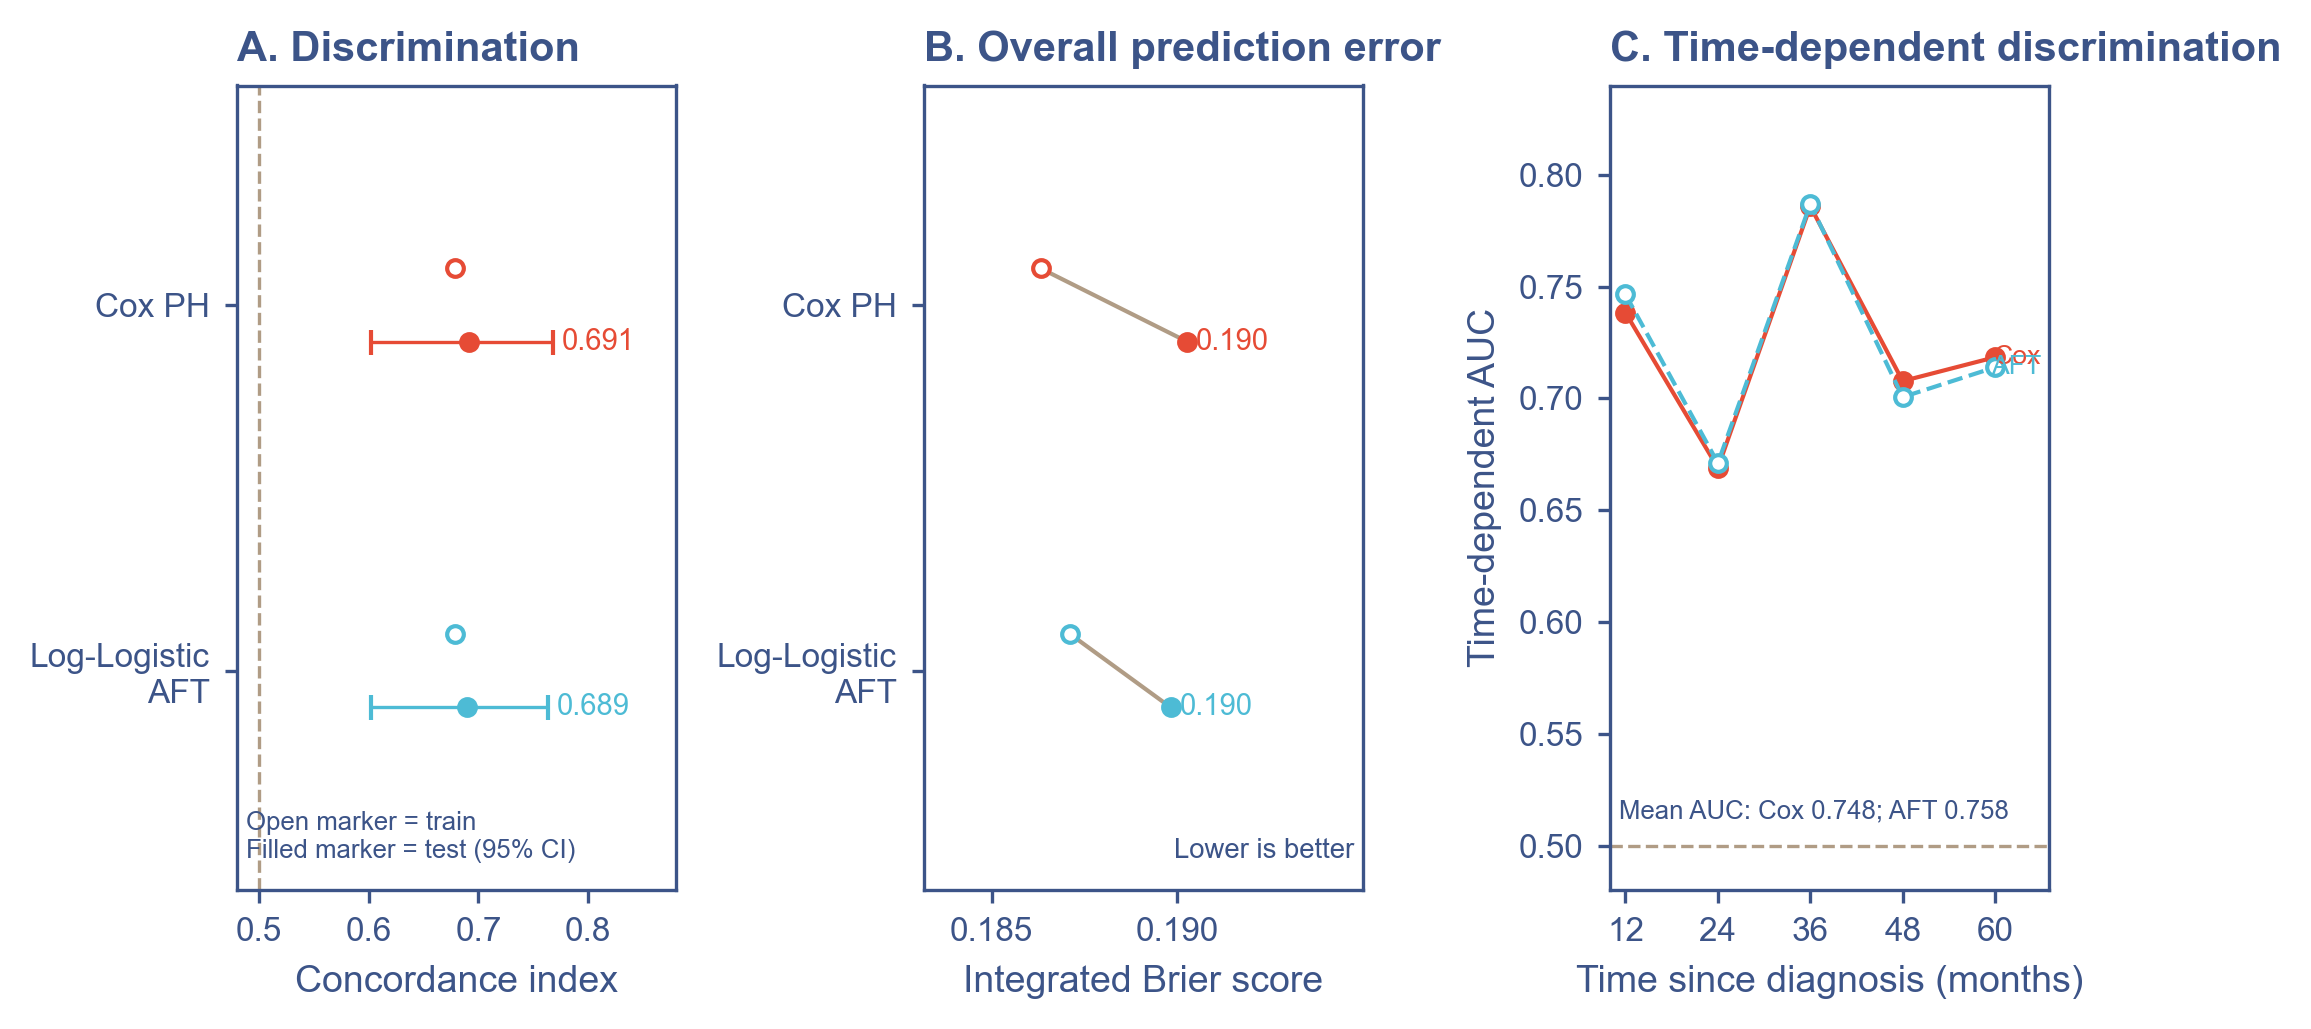
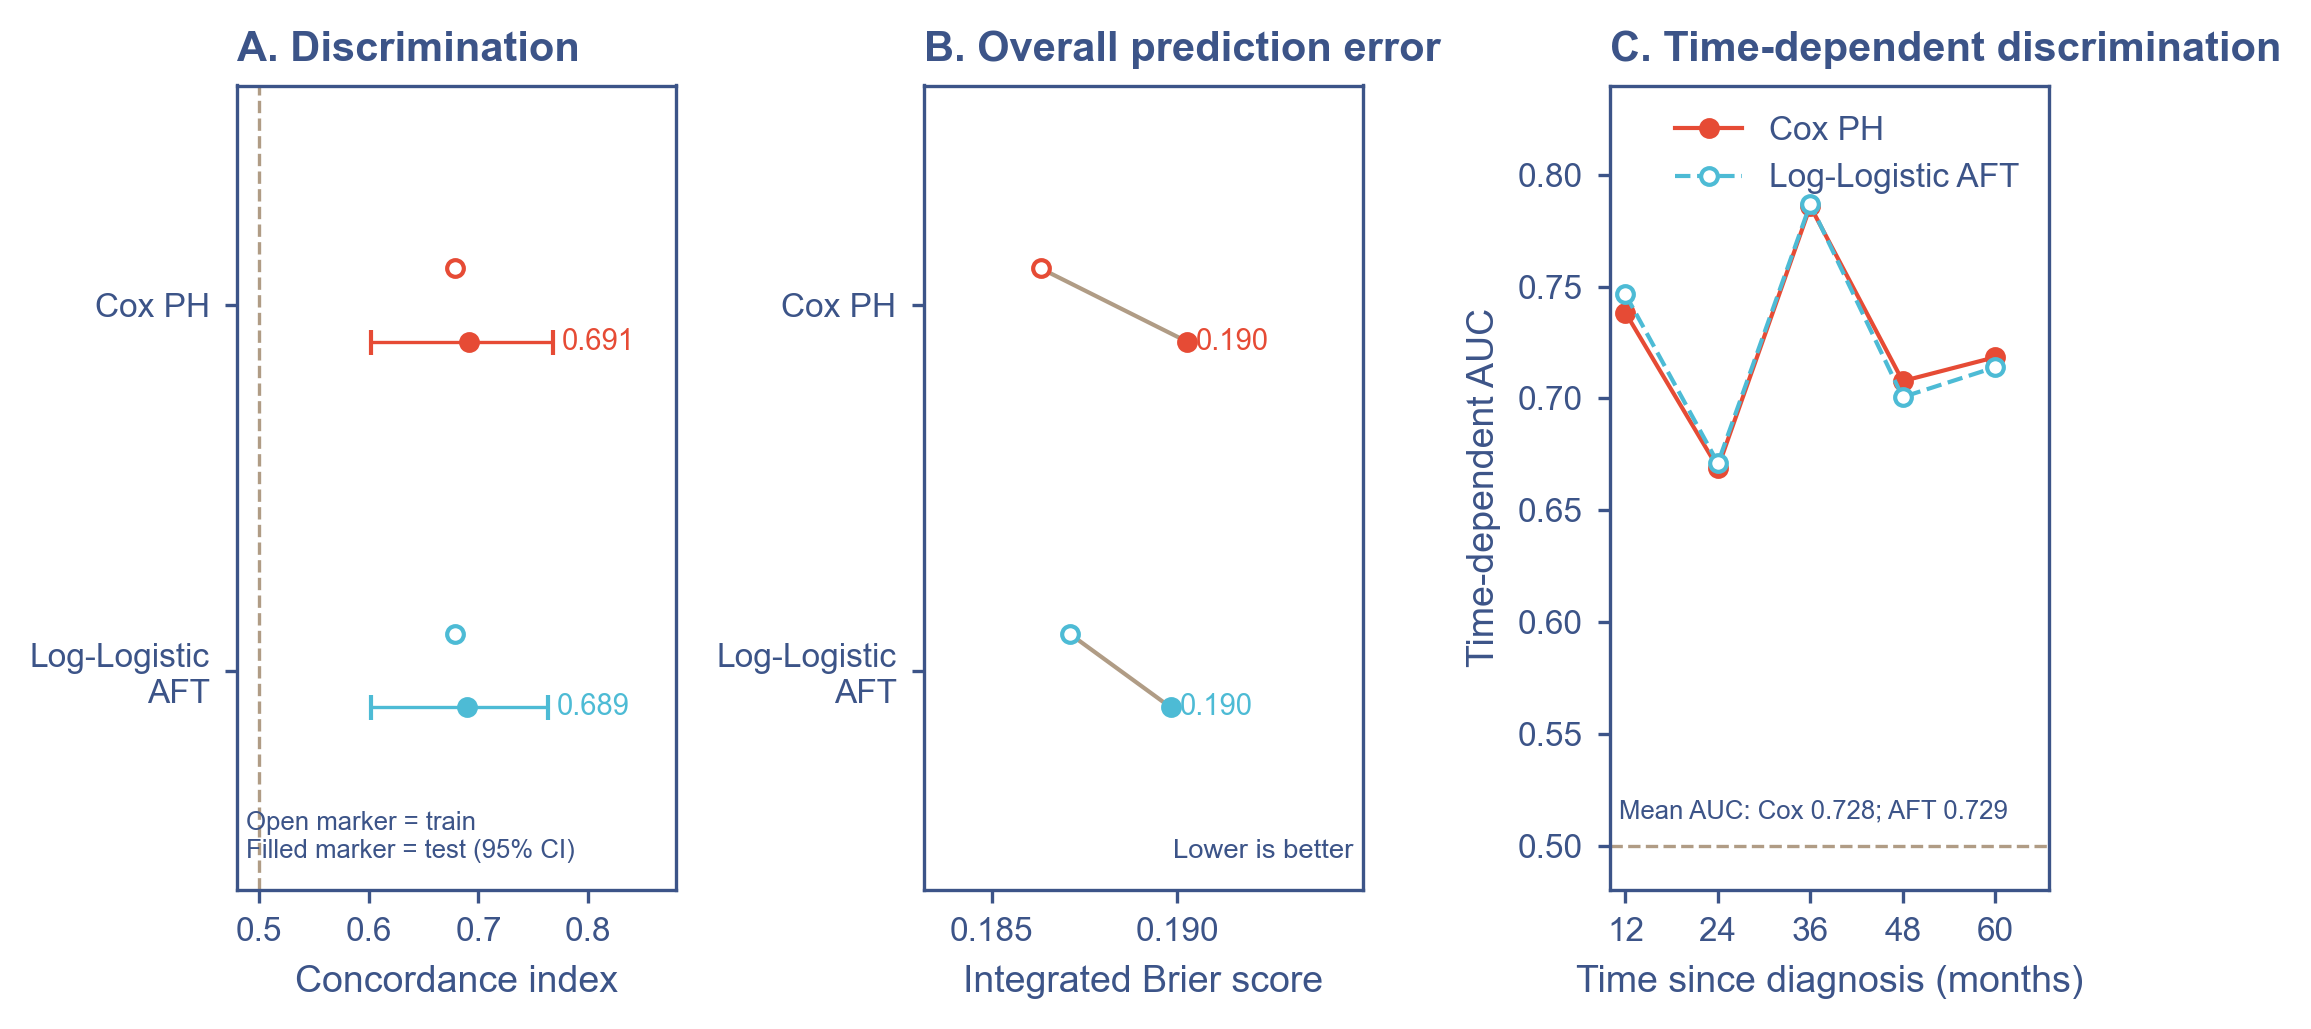
Regenerate model figures from current bundle

diff --git a/generate_readme_figures.py b/generate_readme_figures.py
@@ -223,15 +223,7 @@ def _model_performance_figure(bundle: dict) -> None:
             markersize=4,
             markerfacecolor=row["color"] if index == 0 else "white",
             markeredgecolor=row["color"],
-        )
-        ax.text(
-            66.0,
-            float(auc_values[-1]),
-            "Cox" if index == 0 else "AFT",
-            va="center",
-            ha="right",
-            fontsize=6.4,
-            color=row["color"],
+            label=row["name"],
         )
     ax.axhline(0.5, color=REFERENCE_COLOR, linewidth=0.8, linestyle="--")
     ax.set_xlim(10, 67)
@@ -240,10 +232,12 @@ def _model_performance_figure(bundle: dict) -> None:
     ax.set_xlabel("Time since diagnosis (months)")
     ax.set_ylabel("Time-dependent AUC")
     ax.set_title("C. Time-dependent discrimination", loc="left")
+    ax.legend(loc="upper right", frameon=False)
     ax.text(
         0.02,
         0.09,
-        "Mean AUC: Cox 0.748; AFT 0.758",
+        f"Mean AUC: Cox {model_rows[0]['test']['mean_auc']:.3f}; "
+        f"AFT {model_rows[1]['test']['mean_auc']:.3f}",
         transform=ax.transAxes,
         fontsize=6.2,
     )
